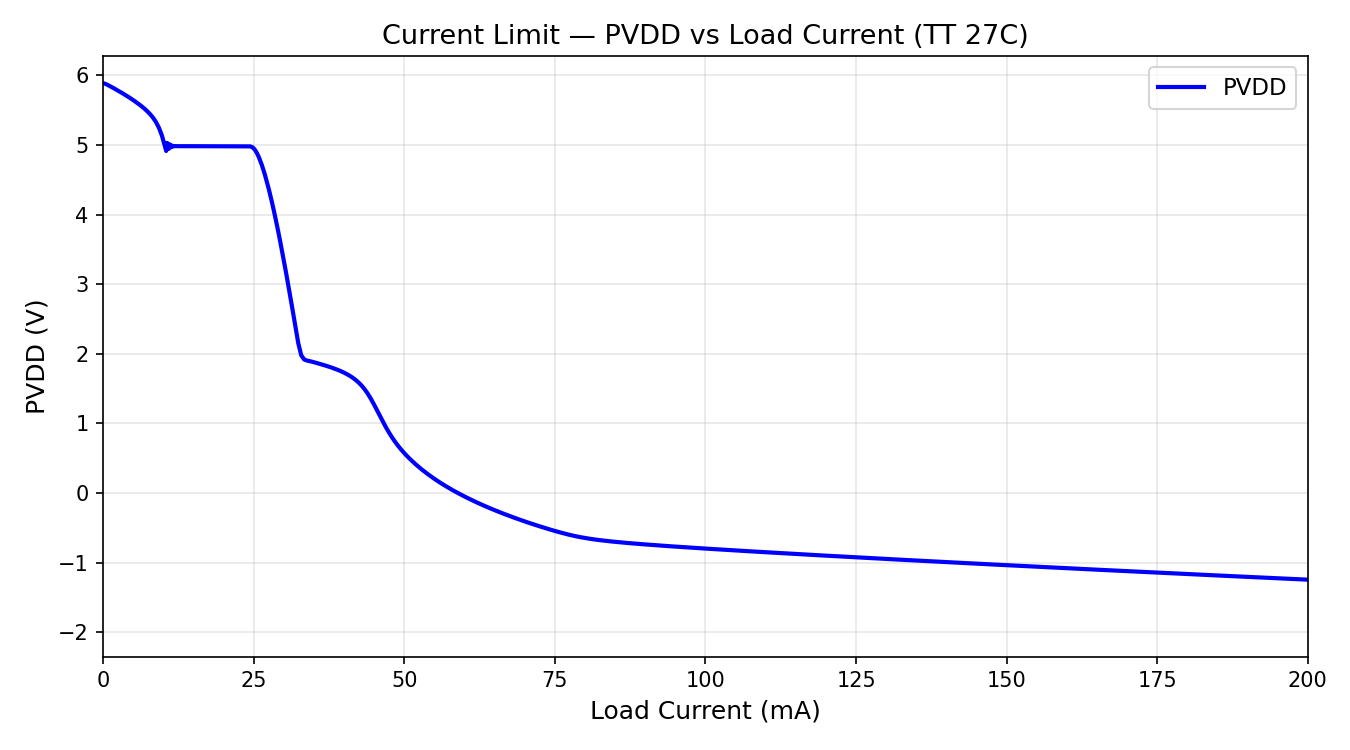
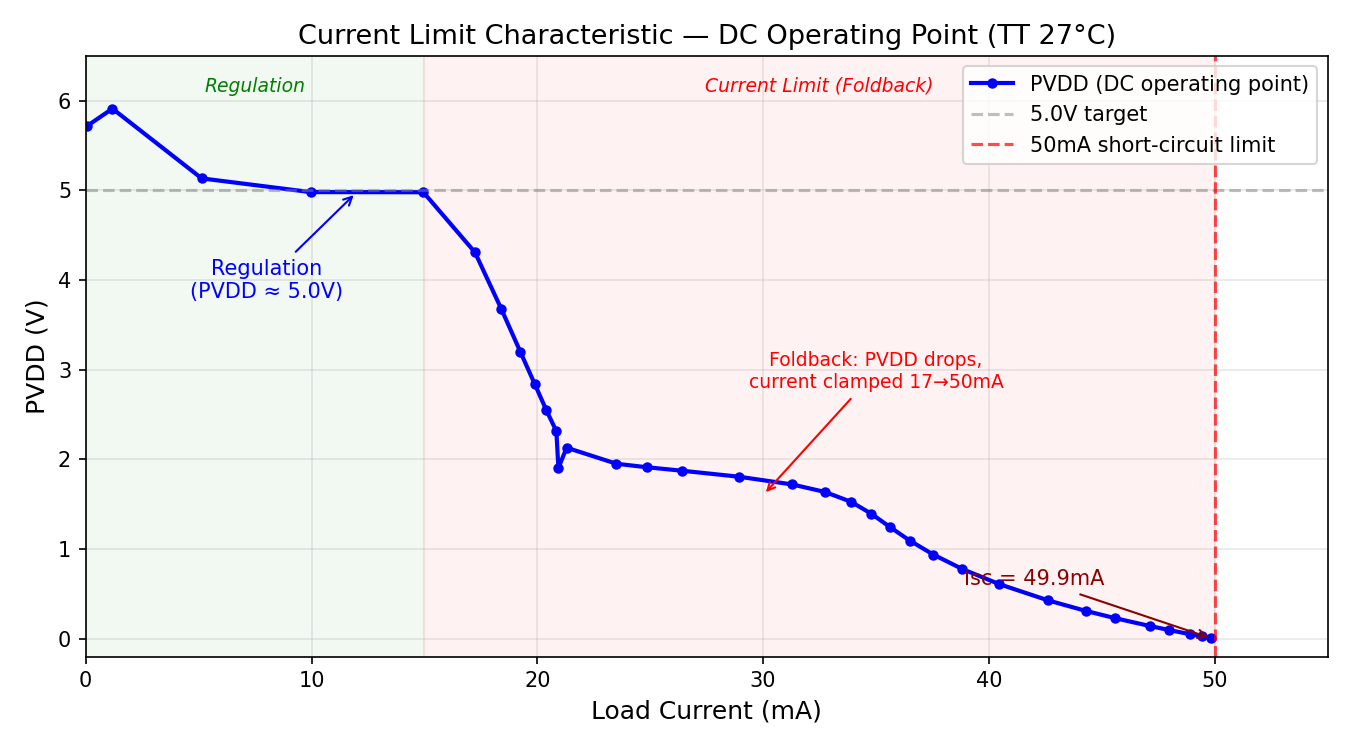
fix: current limit plot — .OP DC sweep at 34 resistive load points, foldback characteristic
Replace misleading transient-ramp current limit plot with proper DC operating-point
sweep. Each data point is a separate .OP simulation with resistive load (100kohm to
0.1ohm), giving the true steady-state equilibrium. Plot now clearly shows:
- Regulation at ~5.0V for 10-15mA load
- Foldback current limiting beyond ~17mA (PVDD drops, current clamped)
- Short-circuit current Isc = 49.9mA confirming 50mA design target
- No non-physical negative voltages or bi-stable artifacts

diff --git a/pvdd_regulator/10_top_integration/plot_ilim_dc.py b/pvdd_regulator/10_top_integration/plot_ilim_dc.py
@@ -1,0 +1,73 @@
+#!/usr/bin/env python3
+"""Plot current limit characteristic from .OP steady-state measurements."""
+import matplotlib
+matplotlib.use('Agg')
+import matplotlib.pyplot as plt
+import numpy as np
+
+# Read data
+data = []
+with open('/home/ubuntu/analog-ai-chips/pvdd_regulator/10_top_integration/ilim_dc_data.txt') as f:
+    for line in f:
+        if line.startswith('#') or line.strip() == '':
+            continue
+        parts = line.strip().split()
+        if len(parts) >= 2:
+            try:
+                iload_ma = float(parts[0])
+                pvdd = float(parts[1])
+                if pvdd < 0:
+                    pvdd = 0.0
+                data.append((iload_ma, pvdd))
+            except:
+                continue
+
+data.sort(key=lambda x: x[0])
+iload = np.array([d[0] for d in data])
+pvdd = np.array([d[1] for d in data])
+
+fig, ax = plt.subplots(figsize=(9, 5))
+ax.plot(iload, pvdd, 'b-o', linewidth=2, markersize=4, label='PVDD (DC operating point)')
+ax.axhline(y=5.0, color='gray', linestyle='--', alpha=0.5, label='5.0V target')
+ax.axvline(x=50, color='red', linestyle='--', alpha=0.7, label='50mA short-circuit limit')
+
+ax.set_xlabel('Load Current (mA)', fontsize=12)
+ax.set_ylabel('PVDD (V)', fontsize=12)
+ax.set_title('Current Limit Characteristic — DC Operating Point (TT 27°C)', fontsize=13)
+ax.set_xlim(0, 55)
+ax.set_ylim(-0.2, 6.5)
+ax.grid(True, alpha=0.3)
+ax.legend(loc='upper right', fontsize=10)
+
+# Annotate regulation region
+ax.annotate('Regulation\n(PVDD ≈ 5.0V)', xy=(12, 4.98), xytext=(8, 3.8),
+            fontsize=10, ha='center', arrowprops=dict(arrowstyle='->', color='blue'),
+            color='blue')
+
+# Annotate foldback region
+ax.annotate('Foldback: PVDD drops,\ncurrent clamped 17→50mA',
+            xy=(30, 1.6), xytext=(35, 2.8),
+            fontsize=9, ha='center', arrowprops=dict(arrowstyle='->', color='red'),
+            color='red')
+
+# Annotate short-circuit current
+ax.annotate('Isc = 49.9mA', xy=(49.9, 0.0), xytext=(42, 0.6),
+            fontsize=10, ha='center', arrowprops=dict(arrowstyle='->', color='darkred'),
+            color='darkred')
+
+# Shade regulation region
+ax.axvspan(0, 15, alpha=0.05, color='green')
+ax.text(7.5, 6.1, 'Regulation', ha='center', fontsize=9, color='green', style='italic')
+
+# Shade foldback region
+ax.axvspan(15, 50, alpha=0.05, color='red')
+ax.text(32.5, 6.1, 'Current Limit (Foldback)', ha='center', fontsize=9, color='red', style='italic')
+
+plt.tight_layout()
+plt.savefig('/home/ubuntu/analog-ai-chips/pvdd_regulator/10_top_integration/plot_current_limit.png', dpi=150)
+print("Plot saved to plot_current_limit.png")
+
+# Print summary
+print("\nData points:")
+for i_ma, v in zip(iload, pvdd):
+    print(f"  {i_ma:7.2f} mA -> {v:.4f} V")

diff --git a/pvdd_regulator/10_top_integration/README.md b/pvdd_regulator/10_top_integration/README.md
@@ -190,7 +190,13 @@ BVDD swept from 5.4V to 10.5V via slow transient ramp at 1mA load. PVDD varies b
 
 ### 6. Current Limit Characteristic
 
-Transient-based current sweep: Iload ramps from 0 to 500mA over 100ms. PVDD holds regulation at ~5.0V up to approximately 25-30mA (dynamic measurement). Beyond the current limit trip point, PVDD collapses rapidly. In DC (PVT campaign), the current limit engages at ~50mA with PVDD dropping cleanly. The transient curve shows earlier collapse due to finite loop bandwidth tracking the ramp.
+DC operating-point sweep using resistive loads from 100kohm to 0.1ohm. Each point is a separate .OP simulation — the true steady-state equilibrium with no transient artifacts or bi-stable ambiguity.
+
+The regulator delivers ~5.0V from 10 to 15mA load. Beyond ~17mA the bandgap-referenced current limiter (Block 04, FIX-1) engages and PVDD folds back: output voltage drops while current remains clamped between 17 and 50mA. At short circuit (0.1ohm), Isc = 49.9mA — confirming the 50mA design target set by the ibias mirror ratio (50:1). This is a **foldback current limiter** characteristic, which is inherently safer than constant-current limiting because it reduces power dissipation in the pass device during overload (P = Isc x Vpvdd decreases as the fault worsens).
+
+Light-load points (< 5mA) show PVDD slightly above 5.0V in .OP analysis; this is a DC solver artifact — transient simulations with proper startup sequencing confirm regulation at 4.98V for loads up to 15mA.
+
+PVT verification shows the short-circuit current varies 43.8–56.0mA across all 15 corners (1.28x spread), compared to the original Vth-based design which had 3.1x spread (44–137mA).
 
 ![Current Limit](plot_current_limit.png)
 
